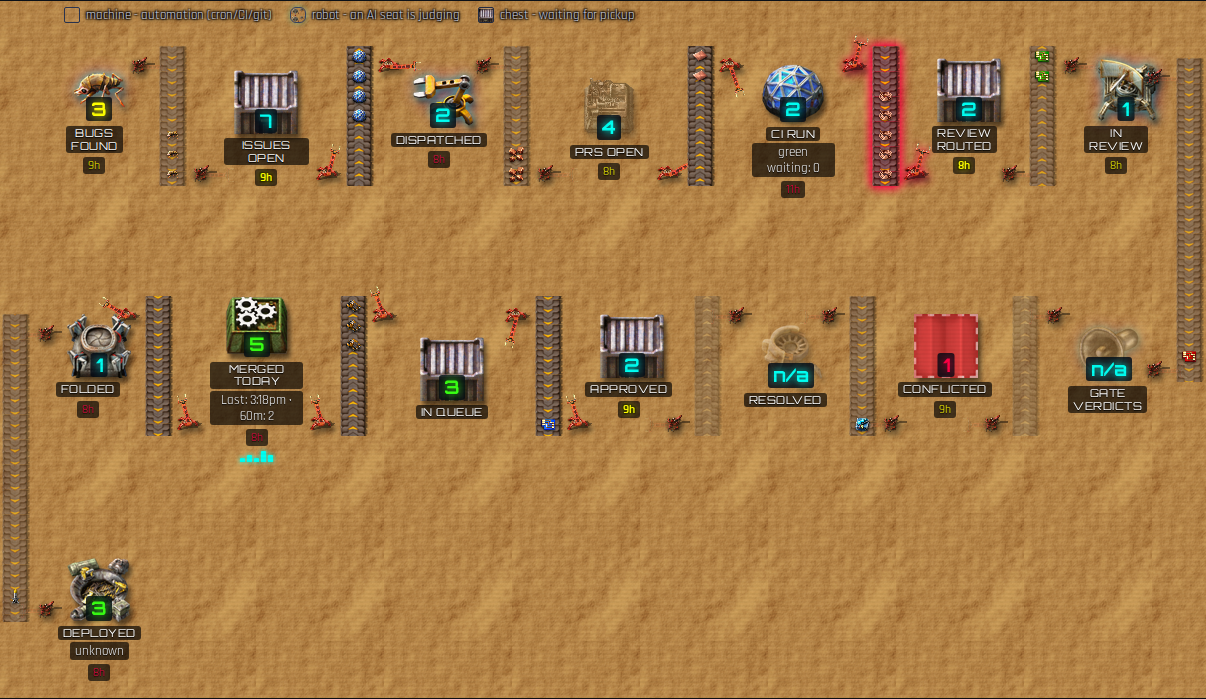
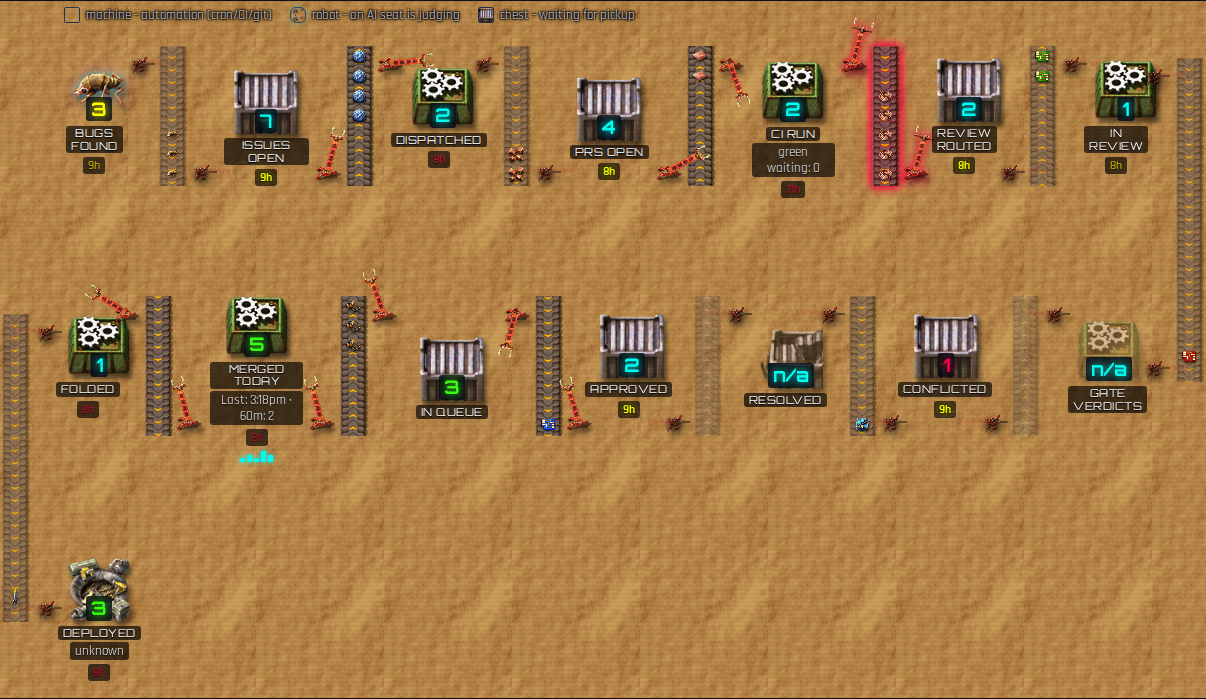
feat(monitor): assemblers where work happens, chests where it waits; arm pivots on the bearing
Ben: "use assembly machines for any stage where work is happening
(dispatched, ci run, in review...) and the steel box for when issues are
just waiting (review routed, PRs open, in queue...). Leave bugs and
deployed as is." SHIP_STAGE_META now: assembling machine for dispatched,
ci run, in review, gate verdicts, merged today, folded; steel chest for
issues open, prs open, review routed, conflicted, resolved, approved, in
queue; biter and silo unchanged.

Ben: "the inserter arms are still too low." Measured the bearing ring in
the platform frame at (51,29) of 105x79 -> (14.6,17.4) in the slot; the
pivot was ~4px below it. The arm is also longer now (20x46, sprite aspect
kept, ~1.5x the tripod's width as in his close-up) and draws above the
belt.

Claude-Session: https://claude.ai/code/session_015a21LH9eqkn4oZydkWAQ3i

diff --git a/queue_router.py b/queue_router.py
@@ -7305,8 +7305,13 @@ image-rendering:pixelated;opacity:.85;filter:var(--ground-shadow)}
    native frame drawn at 30x23, bottom-left); the arm sprite's mounting
    base is its very bottom edge, so the pivot is 50% 100% of the arm and
    the arm is placed so that point lands on the hub. */
-.ship-inserter .inserter-arm{position:absolute;left:9px;top:-11px;width:14px;height:32px;
-background-repeat:no-repeat;background-size:14px 32px;image-rendering:pixelated;
+/* Hub (the bearing ring) measured at (51,29) of the 105x79 platform frame
+   -> (14.6, 17.4) in the 34x32 slot with the platform bottom-left. The arm
+   is 20x46 (sprite aspect kept, longer like the reference - about 1.5x the
+   tripod's width) and pivots at its own bottom edge, placed on the hub. */
+.ship-inserter{z-index:2}
+.ship-inserter .inserter-arm{position:absolute;left:5px;top:-29px;width:20px;height:46px;
+background-repeat:no-repeat;background-size:20px 46px;image-rendering:pixelated;
 transform-origin:50% 100%;transform:rotate(var(--arm-rest,90deg));transition:transform .4s ease,opacity .4s ease}
 .ship-inserter.idle .inserter-arm{opacity:.4}
 /* LORE order 14 "the inserters must swing": a real Factorio inserter's arm
@@ -8415,19 +8420,24 @@ function shipAgeHtml(cap, iso) {
 // sharper fact.
 const SHIP_STAGE_META = {
     'bugs found':     {kind: 'robot',   sprite: 'repair-pack.png'},
+    // Ben: an assembling machine wherever work is HAPPENING (dispatched,
+    // ci run, in review, gate verdicts, merged, folded); the steel chest
+    // wherever work is just WAITING (issues open, prs open, review routed,
+    // conflicted, resolved, approved, in queue). Bugs found (biter) and
+    // deployed (silo) stay as they were.
     'issues open':    {kind: 'chest',   sprite: 'chest/steel-chest.png'},
-    'dispatched':     {kind: 'robot',   sprite: 'inserter.png'},
-    'prs open':       {kind: 'robot',   sprite: 'assembler'},
-    'ci q/run':       {kind: 'machine', sprite: 'lab.png'},
+    'dispatched':     {kind: 'machine', sprite: 'assembling-machine-3.png'},
+    'prs open':       {kind: 'chest',   sprite: 'chest/steel-chest.png'},
+    'ci q/run':       {kind: 'machine', sprite: 'assembling-machine-3.png'},
     'review routed':  {kind: 'chest',   sprite: 'chest/steel-chest.png'},
-    'in review':      {kind: 'robot',   sprite: 'radar.png'},
-    'gate verdicts':  {kind: 'robot',   sprite: 'programmable-speaker.png'},
-    'conflicted':     {kind: 'machine', sprite: 'deconstruction-planner.png'},
-    'resolved':       {kind: 'machine', sprite: 'construction-robot.png'},
+    'in review':      {kind: 'machine', sprite: 'assembling-machine-3.png'},
+    'gate verdicts':  {kind: 'machine', sprite: 'assembling-machine-3.png'},
+    'conflicted':     {kind: 'chest',   sprite: 'chest/steel-chest.png'},
+    'resolved':       {kind: 'chest',   sprite: 'chest/steel-chest.png'},
     'approved':       {kind: 'chest',   sprite: 'chest/steel-chest.png'},
     'in line':        {kind: 'chest',   sprite: 'chest/steel-chest.png'},
     'merged today':   {kind: 'machine', sprite: 'assembling-machine-3.png'},
-    'folded':         {kind: 'machine', sprite: 'roboport.png'},
+    'folded':         {kind: 'machine', sprite: 'assembling-machine-3.png'},
     'deployed':       {kind: 'machine', sprite: 'rocket-silo.png'},
     // Row 3's shipStage() call uses 'last deploy' as its own cap/data-square
     // (the box's caption text is the separate `label` param, 'deployed') -
